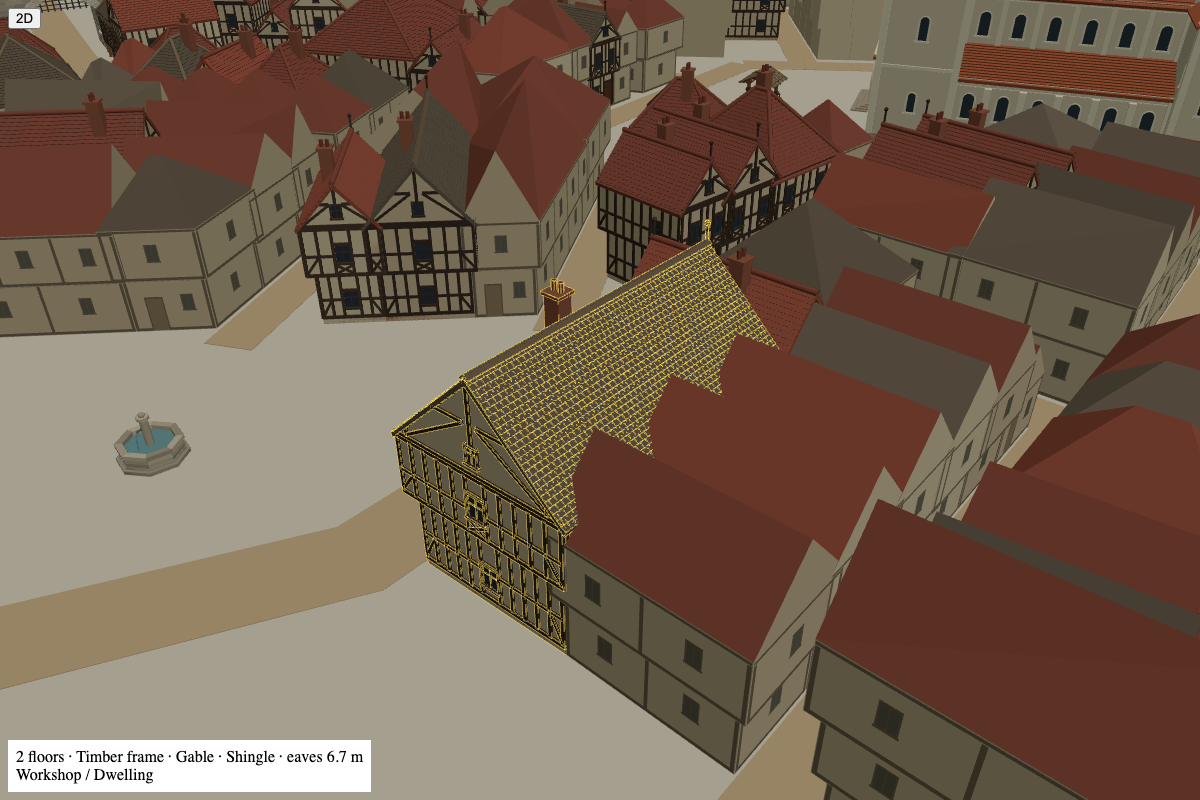
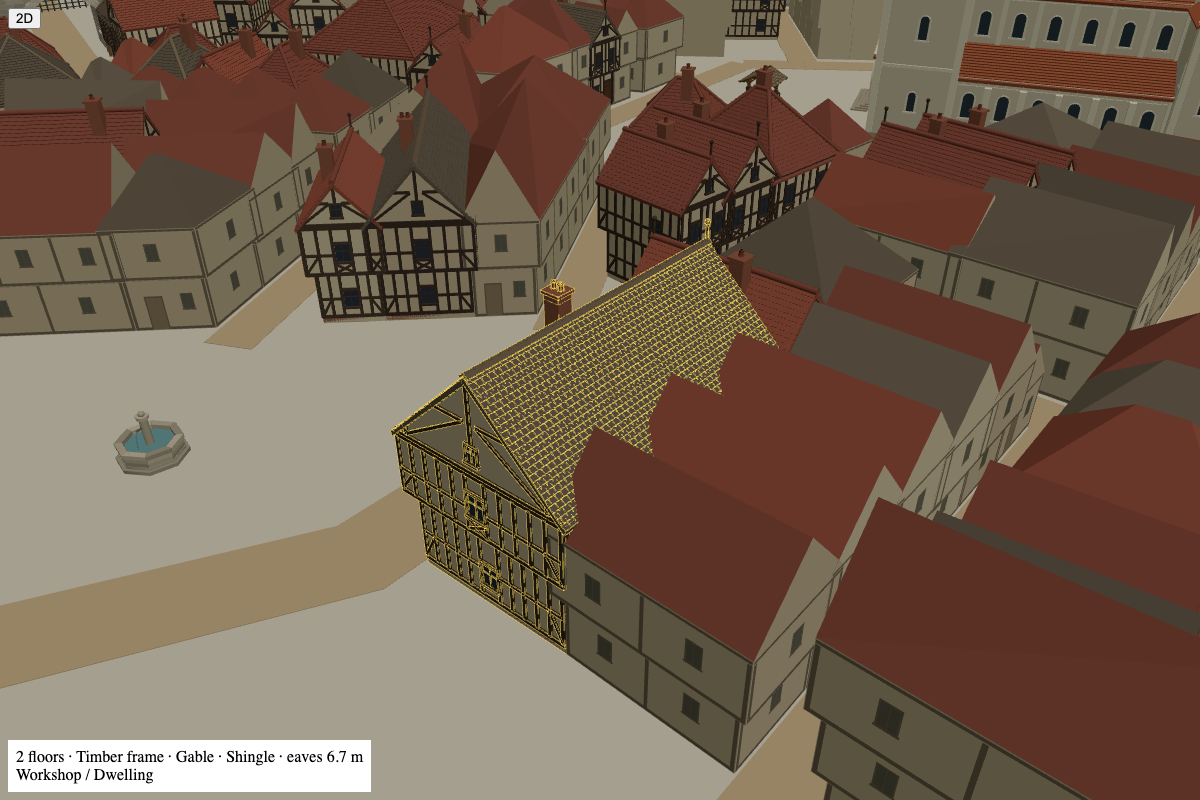
feat: add chimney models and rendering logic for regional houses

diff --git a/src/buildings/houses/regionalHouses.ts b/src/buildings/houses/regionalHouses.ts
@@ -28,6 +28,7 @@ interface HouseStyle {
   boarding?: boolean;
   /** Ground storey in coursed rubble under a framed upper storey. */
   stoneGround?: BuildingPaletteId;
+  chimney: "round-pots" | "octagonal-pots" | "open-stack" | "tile-cowl" | "stone-cowl";
   plinth: BuildingPaletteId;
   jetty: number;
   overhang: number;
@@ -41,6 +42,7 @@ const STYLES: Record<RegionalHouseProfile, HouseStyle> = {
     wall: "limewash",
     roof: "terracotta",
     cover: "coppi",
+    chimney: "tile-cowl",
     plinth: "limestone",
     jetty: 0,
     overhang: 0.35,
@@ -53,6 +55,7 @@ const STYLES: Record<RegionalHouseProfile, HouseStyle> = {
     frame: "frame",
     roof: "straw",
     cover: "thatch",
+    chimney: "round-pots",
     plinth: "rubble",
     jetty: 0.4,
     overhang: 0.6,
@@ -62,6 +65,7 @@ const STYLES: Record<RegionalHouseProfile, HouseStyle> = {
     note: "Board-and-batten log-house cladding on a raised rubble footing, reed thatch, crossed gable horns, small shuttered windows and a rough stone chimney.",
     wall: "timber",
     boarding: true,
+    chimney: "open-stack",
     roof: "reed",
     cover: "thatch",
     plinth: "rubble",
@@ -74,6 +78,7 @@ const STYLES: Record<RegionalHouseProfile, HouseStyle> = {
     note: "Gable-fronted burgher houses: dark frames with St Andrew's crosses under the windows, a jettied front, a loft door with hoist beam, plain-tile roofs and a brick stack.",
     wall: "plaster",
     frame: "northern-frame",
+    chimney: "octagonal-pots",
     roof: "urban-tile",
     cover: "tile",
     plinth: "brick",
@@ -86,6 +91,7 @@ const STYLES: Record<RegionalHouseProfile, HouseStyle> = {
     wall: "plaster",
     frame: "frame",
     stoneGround: "upland-stone",
+    chimney: "stone-cowl",
     roof: "local-stone-roof",
     cover: "stone",
     plinth: "upland-stone",
@@ -597,6 +603,40 @@ function buildHouses(
     });
   }
 
+  /** A solid masonry section with actual bores, including their inward-facing walls. */
+  function chimneySection(
+    size: number,
+    height: number,
+    flues: readonly number[],
+    bore: number,
+    round: boolean
+  ): THREE.BufferGeometry {
+    return cached(`chimney-section:${size}:${height}:${flues.join(",")}:${bore}:${round}`, () => {
+      const half = size / 2;
+      const shape = new THREE.Shape([
+        new THREE.Vector2(-half, -half),
+        new THREE.Vector2(half, -half),
+        new THREE.Vector2(half, half),
+        new THREE.Vector2(-half, half)
+      ]);
+      for (const x of flues) {
+        const hole = new THREE.Path();
+        if (round) hole.absarc(x, 0, bore, 0, Math.PI * 2, true);
+        else {
+          hole.moveTo(x - bore, -bore);
+          hole.lineTo(x - bore, bore);
+          hole.lineTo(x + bore, bore);
+          hole.lineTo(x + bore, -bore);
+          hole.closePath();
+        }
+        shape.holes.push(hole);
+      }
+      return new THREE.ExtrudeGeometry(shape, { depth: height, bevelEnabled: false, curveSegments: 6 }).rotateX(
+        -Math.PI / 2
+      );
+    });
+  }
+
   function house(spec: RegionalHouseSpec, ox: number): void {
     const style = STYLES[spec.profile];
     const profile = spec.profile;
@@ -945,20 +985,97 @@ function buildHouses(
           : BRICK;
     const stackTop = ridgeY + (thatch ? 1.2 : 0.8);
     const stackSize = cover === "stone" ? 1.0 : 0.7;
-    box(ox + cxOff, eave - 1, cz, stackSize, stackTop - eave + 1, stackSize, stackColor);
-    box(ox + cxOff, stackTop, cz, stackSize + 0.16, 0.12, stackSize + 0.16, cover === "coppi" ? DRESSED : stackColor);
-    if (cover === "coppi") {
-      put(
-        cached("chimney-cap", () => new THREE.CylinderGeometry(0.0, 0.62, 0.4, 4, 1, false, Math.PI / 4)),
-        roof,
-        [ox + cxOff, stackTop + 0.32, cz]
-      );
-    } else if (cover === "stone") {
-      for (const side of [-1, 1]) box(ox + cxOff + side * 0.32, stackTop + 0.12, cz, 0.16, 0.35, 0.8, stackColor);
-      box(ox + cxOff, stackTop + 0.47, cz, 1.2, 0.1, 1.0, BUILDING_PALETTES["local-stone-roof"][0]);
-    } else if (detailed) {
+    // Visual heating-demand proxy, not a simulated inventory of hearths or measured regional statistics.
+    const multipleFlues = storeys >= 2 && (baseWidth * baseDepth >= 60 || spec.groundUse === "craft");
+    const flues = multipleFlues ? [-0.16, 0.16] : [0];
+    const pots = style.chimney === "round-pots" || style.chimney === "octagonal-pots";
+    const bore = pots ? 0.075 : 0.105;
+    const wellDepth = 0.24;
+    const copingHeight = 0.12;
+    box(ox + cxOff, eave - 1, cz, stackSize, stackTop - eave + 1 - wellDepth, stackSize, stackColor);
+    put(chimneySection(stackSize, wellDepth, flues, bore, pots), stackColor, [ox + cxOff, stackTop - wellDepth, cz]);
+    put(
+      chimneySection(stackSize + 0.16, copingHeight, flues, bore, pots),
+      style.chimney === "tile-cowl" ? DRESSED : stackColor,
+      [ox + cxOff, stackTop, cz]
+    );
+    // A recessed soot-dark floor gives the opening depth without sealing its mouth.
+    for (const x of flues) box(ox + cxOff + x, stackTop - wellDepth, cz, bore * 2, 0.01, bore * 2, "#171512");
+    const copingTop = stackTop + copingHeight;
+    if (!pots) {
+      for (const x of flues)
+        for (const side of [-1, 1]) {
+          const bottom = stackTop - wellDepth + 0.01;
+          const height = wellDepth + copingHeight - 0.02;
+          box(ox + cxOff + x + side * (bore - 0.004), bottom, cz, 0.008, height, bore * 2, "#25201B");
+          box(ox + cxOff + x, bottom, cz + side * (bore - 0.004), bore * 2, height, 0.008, "#25201B");
+        }
+    }
+    if (style.chimney === "tile-cowl" || style.chimney === "stone-cowl") {
+      const clearance = style.chimney === "tile-cowl" ? 0.18 : 0.25;
+      // Support the shelter above the open flues, leaving an actual lateral smoke outlet.
       for (const side of [-1, 1])
-        put(unitCylinder, "#7A4434", [ox + cxOff + side * 0.16, stackTop + 0.3, cz], [0, 0, 0], [0.11, 0.4, 0.11]);
+        box(ox + cxOff, copingTop, cz + side * stackSize * 0.36, stackSize * 0.8, clearance, 0.1, stackColor);
+      if (style.chimney === "tile-cowl") {
+        put(
+          cached(
+            `chimney-tile-cowl:${stackSize}`,
+            () => new THREE.CylinderGeometry(0, (stackSize + 0.25) / Math.SQRT2, 0.22, 4, 1, false, Math.PI / 4)
+          ),
+          roof,
+          [ox + cxOff, copingTop + clearance + 0.11, cz]
+        );
+      } else
+        box(
+          ox + cxOff,
+          copingTop + clearance,
+          cz,
+          stackSize + 0.2,
+          0.1,
+          stackSize + 0.12,
+          BUILDING_PALETTES["local-stone-roof"][0]
+        );
+    } else if (pots && detailed) {
+      const segments = style.chimney === "octagonal-pots" ? 8 : 12;
+      const height = style.chimney === "octagonal-pots" ? 0.28 : 0.34;
+      for (const x of flues) {
+        const position: [number, number, number] = [ox + cxOff + x, copingTop, cz];
+        // The open profile has a flared foot and lip, rather than a cylinder's closed top cap.
+        put(
+          cached(
+            `chimney-pot-outer:${segments}:${height}`,
+            () =>
+              new THREE.LatheGeometry(
+                [
+                  new THREE.Vector2(0.14, 0),
+                  new THREE.Vector2(0.14, 0.04),
+                  new THREE.Vector2(0.105, 0.08),
+                  new THREE.Vector2(0.105, height - 0.04),
+                  new THREE.Vector2(0.125, height - 0.04),
+                  new THREE.Vector2(0.125, height)
+                ],
+                segments
+              )
+          ),
+          "#7A4434",
+          position
+        );
+        put(
+          cached(
+            `chimney-pot-inner:${segments}:${height}`,
+            () => new THREE.LatheGeometry([new THREE.Vector2(bore, height), new THREE.Vector2(bore, 0)], segments)
+          ),
+          "#25201B",
+          position
+        );
+        put(
+          cached(`chimney-pot-rim:${segments}`, () =>
+            new THREE.RingGeometry(bore, 0.125, segments).rotateX(-Math.PI / 2)
+          ),
+          "#985C45",
+          [position[0], copingTop + height, cz]
+        );
+      }
     }
 
     if (profile === "stone-upland" && variant !== 1 && storeys > 1 && !spec.attached) {

diff --git a/src/buildings/houses/regionalHouseChimneys.test.ts b/src/buildings/houses/regionalHouseChimneys.test.ts
@@ -1,0 +1,108 @@
+import * as THREE from "three";
+import { expect, it } from "vitest";
+import { createRegionalHouseGeometry, defaultRegionalHouseSpec } from "./regionalHouses";
+
+function fixture(width: number, storeys: number, craft = false) {
+  const geometry = createRegionalHouseGeometry(
+    {
+      ...defaultRegionalHouseSpec("atlantic", 0),
+      width,
+      depth: 8,
+      storeys,
+      jetty: 0,
+      cover: "tile",
+      attached: true,
+      groundUse: craft ? "craft" : "residential"
+    },
+    "high"
+  );
+  const material = new THREE.MeshBasicMaterial({ vertexColors: true });
+  const mesh = new THREE.Mesh(geometry, material);
+  const hit = (offset: number) =>
+    new THREE.Raycaster(new THREE.Vector3(0.7 + offset, 100, -2.1), new THREE.Vector3(0, -1, 0)).intersectObject(
+      mesh
+    )[0];
+  const color = (hit: THREE.Intersection) =>
+    new THREE.Color().fromBufferAttribute(geometry.getAttribute("color"), hit.face!.a).getHexString();
+  return {
+    geometry,
+    mesh,
+    hit,
+    color,
+    dispose() {
+      geometry.dispose();
+      material.dispose();
+    }
+  };
+}
+
+it.each([
+  { width: 5, storeys: 2, craft: false, offsets: [0] },
+  { width: 8, storeys: 2, craft: false, offsets: [-0.16, 0.16] },
+  { width: 8, storeys: 1, craft: false, offsets: [0] },
+  { width: 5, storeys: 2, craft: true, offsets: [-0.16, 0.16] }
+])(
+  "leaves actual open bores for a $width m, $storeys storey house (craft=$craft)",
+  ({ width, storeys, craft, offsets }) => {
+    const sample = fixture(width, storeys, craft);
+    try {
+      for (const offset of offsets) {
+        const centre = sample.hit(offset),
+          rim = sample.hit(offset + 0.1);
+        expect(sample.color(centre)).toBe("171512");
+        expect(sample.color(rim)).toBe("985c45");
+        expect(rim.point.y - centre.point.y).toBeGreaterThan(0.5);
+        expect(rim.face!.normal.y).toBeGreaterThan(0.99);
+        const inner = new THREE.Raycaster(
+          new THREE.Vector3(0.7 + offset, rim.point.y + 0.03, -2.1),
+          new THREE.Vector3(0.4, -1, 0).normalize()
+        ).intersectObject(sample.mesh)[0];
+        expect(sample.color(inner)).toBe("25201b");
+        expect(inner.face!.normal.x).toBeLessThan(0);
+      }
+      // A two-flue stack retains the masonry divider instead of one oversized black depression.
+      if (offsets.length === 2) expect(sample.color(sample.hit(0))).not.toBe("171512");
+      else expect(sample.color(sample.hit(0.16))).not.toBe("171512");
+    } finally {
+      sample.dispose();
+    }
+  }
+);
+
+it("keeps the wooded region's masonry outlet open, and supports regional cowls above a real lateral gap", () => {
+  for (const profile of ["northern-wooded", "mediterranean", "stone-upland"] as const) {
+    const geometry = createRegionalHouseGeometry(
+      {
+        ...defaultRegionalHouseSpec(profile, 0),
+        cover: "tile",
+        jetty: 0,
+        attached: true
+      },
+      "high"
+    );
+    const material = new THREE.MeshBasicMaterial({ vertexColors: true });
+    const mesh = new THREE.Mesh(geometry, material);
+    try {
+      const top = new THREE.Raycaster(new THREE.Vector3(0.7, 100, -2.1), new THREE.Vector3(0, -1, 0)).intersectObject(
+        mesh
+      )[0];
+      const colors = geometry.getAttribute("color");
+      if (profile === "northern-wooded") {
+        expect(new THREE.Color().fromBufferAttribute(colors, top.face!.a).getHexString()).toBe("171512");
+      } else {
+        // From inside the air space, a horizontal ray can leave the covered outlet without hitting a sealed coping.
+        const clearanceY = top.point.y - (profile === "mediterranean" ? 0.22 : 0.1) - 0.08;
+        const side = new THREE.Raycaster(
+          new THREE.Vector3(0.7, clearanceY, -2.1),
+          new THREE.Vector3(1, 0, 0),
+          0,
+          0.5
+        ).intersectObject(mesh);
+        expect(side).toHaveLength(0);
+      }
+    } finally {
+      geometry.dispose();
+      material.dispose();
+    }
+  }
+});

diff --git a/scripts/lib/ceHouseChimneysPreview.ts b/scripts/lib/ceHouseChimneysPreview.ts
@@ -1,0 +1,49 @@
+import * as THREE from "three";
+import { createRegionalHouse, defaultRegionalHouseSpec, type RegionalHouseProfile } from "../../src/buildings/houses/regionalHouses";
+
+export function run() {
+  const cases: Array<{ profile: RegionalHouseProfile; width: number; craft?: boolean; label: string }> = [
+    { profile: "atlantic", width: 5, label: "Atlantic · compact home · one open pot" },
+    { profile: "atlantic", width: 8, label: "Atlantic · larger home · two open pots" },
+    { profile: "northern-urban", width: 5, craft: true, label: "Northern urban · workshop · octagonal pots" },
+    { profile: "northern-wooded", width: 5, label: "Northern wooded · open masonry outlet" },
+    { profile: "mediterranean", width: 5, label: "Mediterranean · raised tile cowl" },
+    { profile: "stone-upland", width: 8, label: "Stone upland · raised stone cowl" }
+  ];
+  return cases.map(sample => {
+    const card = document.createElement("section");
+    const title = document.createElement("h2");
+    title.textContent = sample.label;
+    card.append(title);
+    document.body.append(card);
+    const spec = { ...defaultRegionalHouseSpec(sample.profile, 0), width: sample.width, depth: 8, jetty: 0, attached: true,
+      groundUse: sample.craft ? "craft" as const : "residential" as const };
+    const model = createRegionalHouse(spec, "high");
+    const scene = new THREE.Scene();
+    scene.add(model.group, new THREE.HemisphereLight(0xffffff, 0x807464, 1.5));
+    const sun = new THREE.DirectionalLight(0xffffff, 2);
+    sun.position.set(-5, 10, 6);
+    scene.add(sun);
+    const renderer = new THREE.WebGLRenderer({ antialias: true });
+    renderer.setClearColor("#e5dfd2");
+    renderer.setSize(450, 380);
+    const top = new THREE.Box3().setFromObject(model.group).max.y;
+    const x = spec.cover === "thatch" ? 0 : 0.7;
+    const z = -8 * 0.2625;
+    const camera = new THREE.OrthographicCamera(-0.85, 0.85, 0.72, -0.72, 0.1, 100);
+    camera.position.set(x + 1.7, top + 1.6, z + 2.5);
+    camera.lookAt(x, top - 0.4, z);
+    renderer.render(scene, camera);
+    const gl = renderer.getContext();
+    if (gl.getError() || gl.isContextLost()) throw new Error(`Invalid chimney view: ${sample.profile}`);
+    const image = document.createElement("img");
+    image.src = renderer.domElement.toDataURL("image/png");
+    image.style.display = "block";
+    card.append(image);
+    const report = { ...sample, triangles: renderer.info.render.triangles };
+    model.dispose();
+    renderer.dispose();
+    renderer.forceContextLoss();
+    return report;
+  });
+}

diff --git a/docs/plan/ce-regional-building-appearance.md b/docs/plan/ce-regional-building-appearance.md
@@ -431,3 +431,18 @@ node --import tsx scripts/checkCeBuildingDetails.mts
 - ブラウザー確認の再現は `node --import tsx scripts/checkCeHouseFrontage.mts`。妻入り2棟・平入り2棟の[比較画像](../analytics/ce-house-frontage-20261026.png)、生成した実CEの[選択画像](../analytics/ce-house-frontage-city-20261026.png)、[確認結果](../analytics/ce-house-frontage-20261026.json)を保存した。前節と同じseed・設定で1都市を生成し、237棟の詳細住宅が表示される実CEで工房兼住宅をクリックした。選択輪郭と実BVモデルのワールド境界の誤差は0 m、JavaScript/WebGLエラーは0件だった。低画質への切替・ビューの破棄も行った。FMG画面からCEを開く通し操作・多シード検証・実GPUでのFPS計測は含めない。
 
 次に進める作業は§15.3の優先作業2（不整形敷地と未対応の屋根）。大都市へ高詳細の適用を広げる前には、優先作業3の距離別LODとメモリ予算も実施する。
+
+## 17. 煙突の閉じた円柱を開口のある排煙口へ修正
+
+2026-10-26実装。§16の画像で、煙突上の2本の円柱が塞がった棒として見える指摘に対応した。
+
+- 丸筒・八角筒を、裾と口縁に厚みのある中空形状へ変更した。上面を蓋で閉じず、内壁を暗くし、煙突本体と天端にも連続した穴を開けた。穴の奥には口縁より低い煤色の底を置き、筒の直下の石板で塞がる状態も除去した。
+- 本数は全棟2本の固定を止めた。通常は1口、2階以上で地上の床面積が60 m²以上、または工房兼住宅なら2口とする。これは現在の建物寸法・用途を用いた描画用の加熱需要の仮規則であり、実際の炉や煙道のシミュレーション結果・歴史的な本数統計ではない。
+- 地域別の形状は、大西洋岸では丸筒、北方都市では八角筒、北方森林では石造の開口、地中海では瓦の笠、石材地域では石の笠を基本とした。地域の形状を屋根材の名前だけで切り替えない。笠は開いた煙道より上に支持材で持ち上げ、側方へ通じる排煙の隙間を設けた。
+- CEとBVは同じfactoryを使う。標準/低画質では従来どおり筒の細部を省略するが、煙突天端の開口は維持する。
+
+関連テストは `regionalHouseChimneys.test.ts`、`regionalHouses.test.ts`、`regionalHouseMeshes.test.ts` の3ファイル27件成功。口の中心を上から見たrayが奥の煤色の底へ届くこと、口縁との高低差、内壁の向きと色、1口/2口の分離、笠の側方の隙間、BVとCEのgeometry一致・資源解放を確認した。型チェックと変更ソースのBiomeチェックも成功。
+
+`node --import tsx scripts/checkCeHouseChimneys.mts` で[煙突の拡大比較](../analytics/ce-house-chimneys-20261026.png)と[確認結果](../analytics/ce-house-chimneys-20261026.json)を保存した。指摘された[街路正面の画像](../analytics/ce-house-frontage-20261026.png)と実CEの選択画像も修正後の形状で更新した。JavaScript/WebGLエラーは無く、実CEの選択輪郭とBVモデルの境界も一致した。画像は今回の視覚設計の比較であり、実在地域の全時代の住宅を再現したという検証ではない。
+
+次の計画作業は引き続き§15.3の優先作業2（不整形敷地と未対応の屋根）。

diff --git a/docs/plan/CHANGELOG.md b/docs/plan/CHANGELOG.md
@@ -4,7 +4,7 @@
 
 - docs/plan/ce-building-height-controls.md - 単独CEの高さ分布を既定とし、従来の一定階数への切替、都市全体・セル別の階数と屋根を含むm上限を追加。厳しい方の適用、人口容量と増階・描画の共通判定、セルの分割と結合・入力への継承、保存・共有・Undo/Redoと検証を整理。一般建物を対象とし固有施設は別扱い
 - docs/plan/ce-building-height-variation.md - 高さ分布を実装。詳細表示を集約用の粗区画から再分割する初版を撤回し、従来の住宅配置と敷地形状を維持するよう修正。低層化に必要な面積を実容量から校正してコアのセル数を増やし、FMGの敷地充填率と区画寸法で帳尻を合わせない方針、固定境界・保存と共有・回帰検証を追記
-- docs/plan/ce-regional-building-appearance.md - 一般住宅のBV詳細モデルを実測敷地・各階高から生成し、非等方な引き伸ばしと屋根勾配の丸めを除去。累積張り出し、店舗・工房兼住宅、板葺き・スレート・芝土・鉛板の描画、矩形適合と用途によるfallback、比較画像・関連テスト・固定1都市の負荷と残作業を§15へ記録。同日、街路・敷地内通路に向ける妻入り/平入りの選定、建物・水域・城壁等の遮蔽判定、実BV住宅によるクリック輪郭を実装し、§16に記録
+- docs/plan/ce-regional-building-appearance.md - 一般住宅のBV詳細モデルを実測敷地・各階高から生成し、非等方な引き伸ばしと屋根勾配の丸めを除去。累積張り出し、店舗・工房兼住宅、板葺き・スレート・芝土・鉛板の描画、矩形適合と用途によるfallback、比較画像・関連テスト・固定1都市の負荷と残作業を§15へ記録。同日、街路・敷地内通路に向ける妻入り/平入りの選定、建物・水域・城壁等の遮蔽判定、実BV住宅によるクリック輪郭を実装し、§16に記録。同日、煙突の塞がった2本の円柱を中空の排煙口へ直し、建物規模・用途による1口/2口、地域別の筒・開口・笠と拡大画像を§17へ記録
 
 2026-10-25
 
